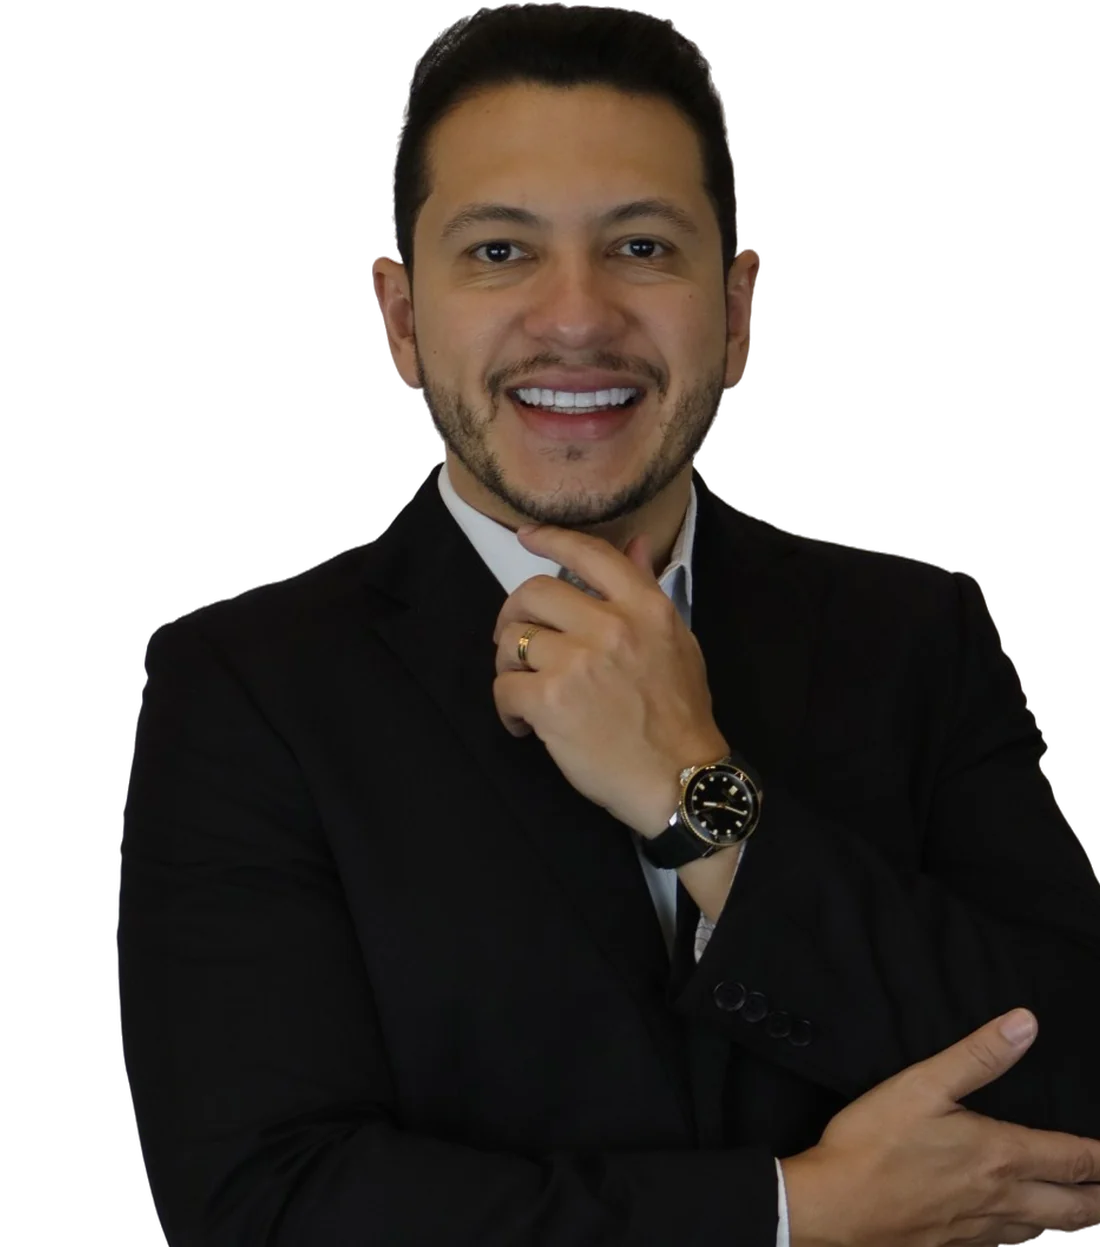
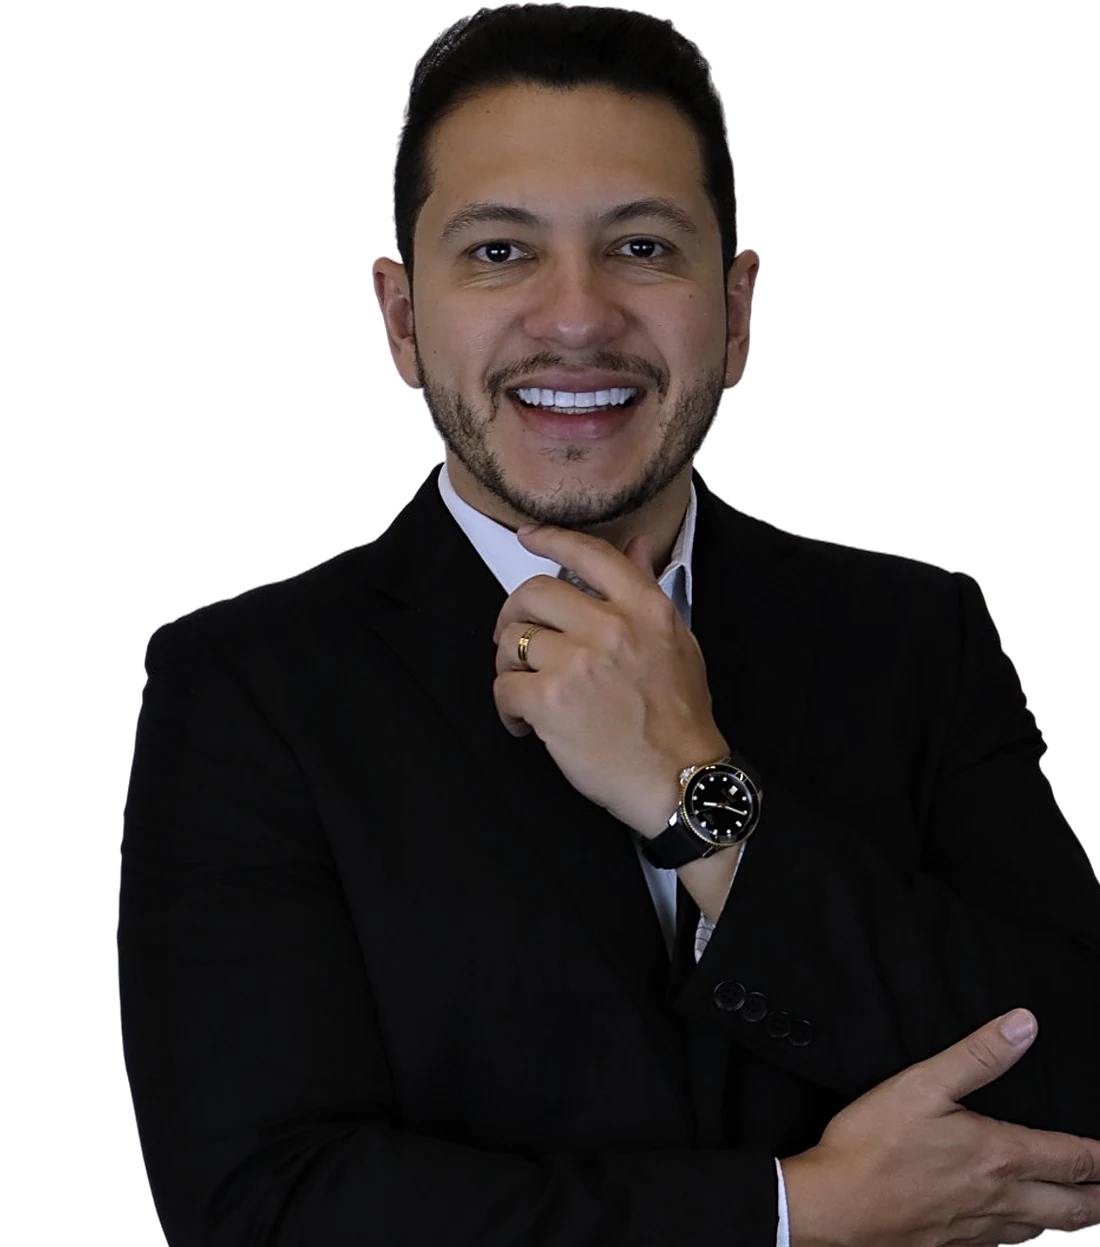
Tratamento de cor e luz na foto do Alyson
Claude-Session: https://claude.ai/code/session_011qGoRwS6qhWQyppoFB8fv9

diff --git a/index.html b/index.html
@@ -191,7 +191,7 @@
     <figure class="stage stage--pair" id="stage" style="margin:0">
       <img class="stage__hex" data-depth="-18" src="/assets/img/simbolo-3d.webp" width="768" height="900" alt="" aria-hidden="true">
       <div class="pair">
-        <img class="pair__img pair__img--a" src="/assets/img/alyson-xavier.webp" width="1100" height="1247" alt="Alyson Xavier, contador e sócio da ACC Tributos, CRC/CE 27954" fetchpriority="high">
+        <img class="pair__img pair__img--a" src="/assets/img/alyson-xavier.webp?v=2" width="1100" height="1247" alt="Alyson Xavier, contador e sócio da ACC Tributos, CRC/CE 27954" fetchpriority="high">
         <img class="pair__img pair__img--j" src="/assets/img/joel-mendonca.webp" width="1100" height="1356" alt="Joel Mendonça, contador e sócio da ACC Tributos, CRC/CE 25911" fetchpriority="high">
       </div>
       <span class="nametag nametag--a"><b>Alyson Xavier</b><span>CRC/CE 27954</span></span>
@@ -346,7 +346,7 @@
       </div>
       <div class="people">
         <div class="person"><img src="/assets/img/joel-mendonca.webp" width="1100" height="1356" alt="Joel Mendonça" loading="lazy"><div><strong>Joel Mendonça</strong><span>CRC/CE 25911</span></div></div>
-        <div class="person"><img src="/assets/img/alyson-xavier.webp" width="1100" height="1247" alt="Alyson Xavier" loading="lazy"><div><strong>Alyson Xavier</strong><span>CRC/CE 27954</span></div></div>
+        <div class="person"><img src="/assets/img/alyson-xavier.webp?v=2" width="1100" height="1247" alt="Alyson Xavier" loading="lazy"><div><strong>Alyson Xavier</strong><span>CRC/CE 27954</span></div></div>
       </div>
     </div>
   </div>
